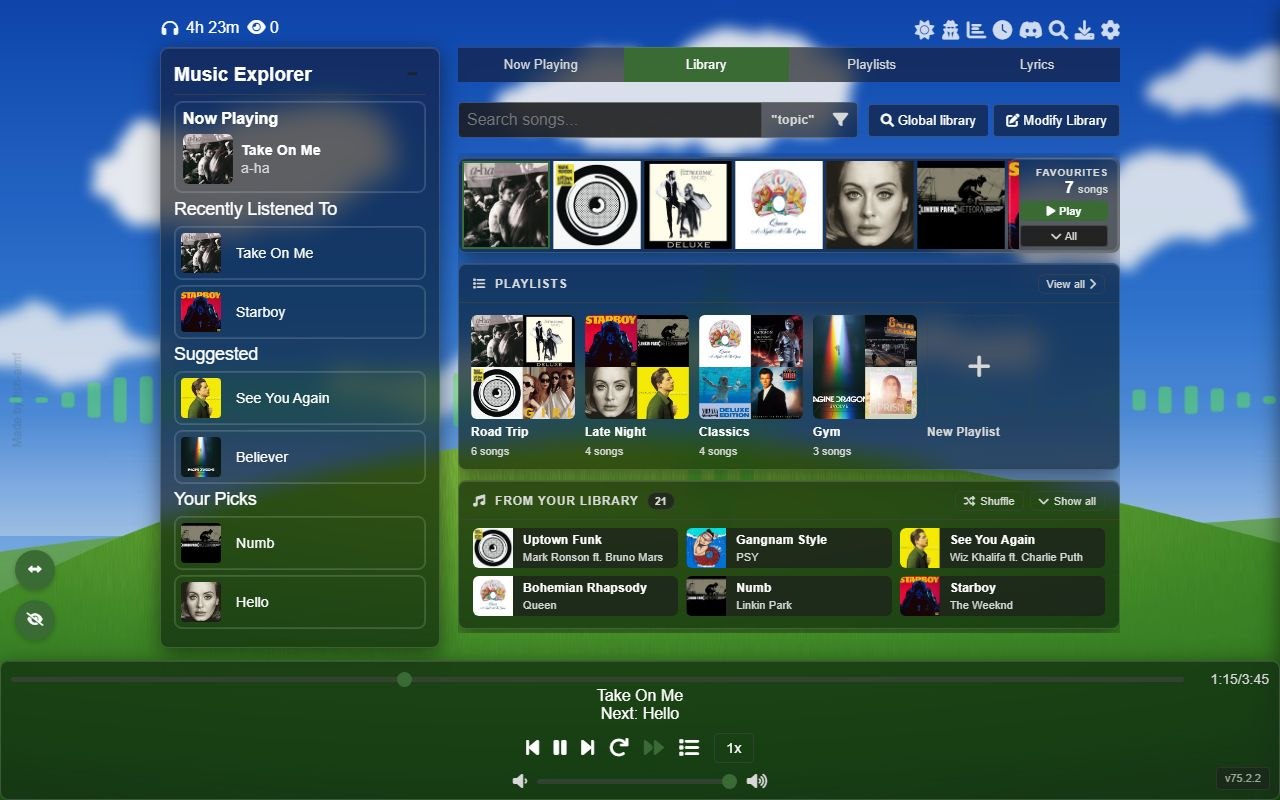
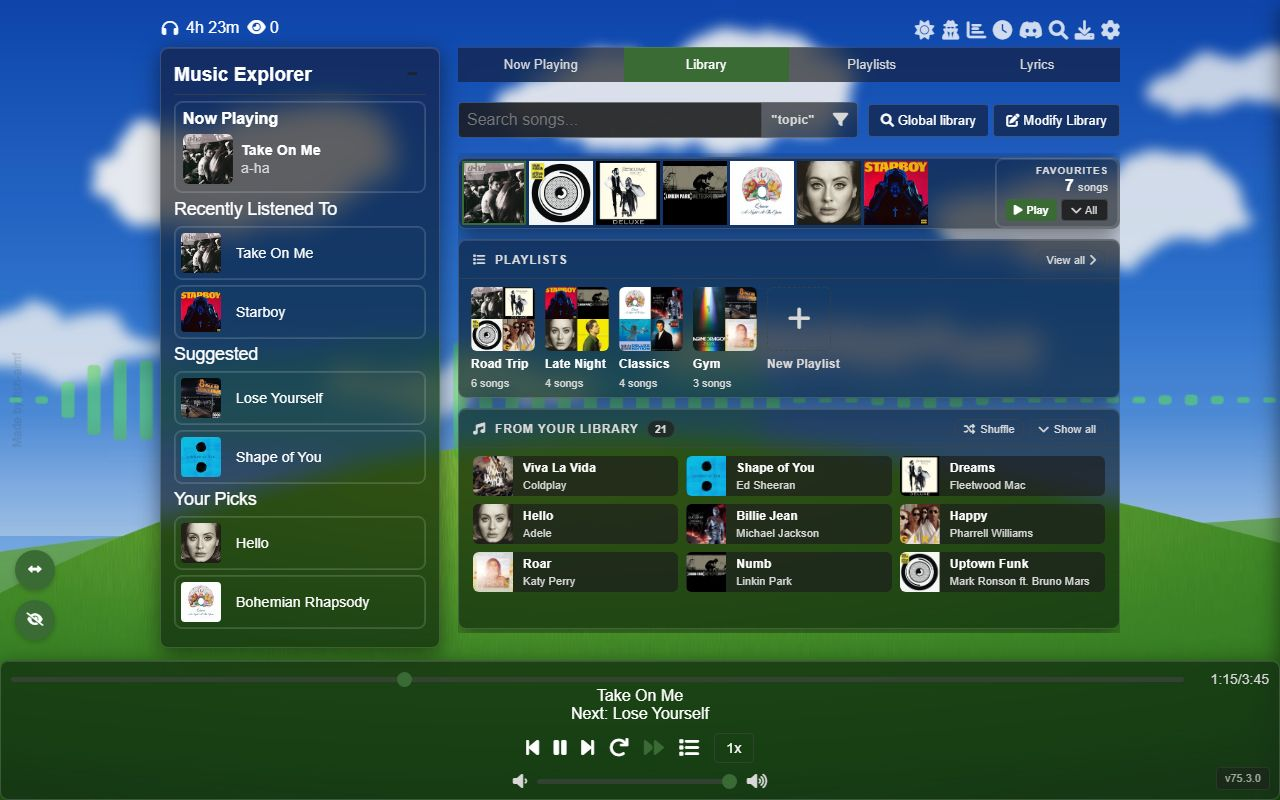
v75.3.2: Drop the control bar spacer and make room for another library row
The 100px #controlBarSpacer only added dead scroll below the fixed player
bar: the library already ends above the bar, and any tab switch hid the
spacer anyway. It is gone from the markup, CSS and the three places that
toggled it. The playlist sidebar spacers still let its last songs scroll
clear of the bar and are unchanged.

From your library now tries a snug layout before settling: the Favourites
strip and Playlists tiles shrink to 64px (buttons side by side) and the
grid is measured again in the same mode. Snug is kept only when it shows
more songs, so the shelves never shrink just to leave blank space. This
adds a compact-tile row from 720px to 850px tall and a cover row at
940-1000px and 1100px+. Regenerated the overview and glass screenshots,
which now show the snug layout at 1280x800.

diff --git a/public/script.js b/public/script.js
@@ -1285,7 +1285,6 @@ class AdvancedMusicPlayer {
     }
     this.elements.speedBtn.textContent = this.currentSpeed + 'x';
     const controlBarVisible = localStorage.getItem('controlBarVisible');
-    const spacerDiv = document.getElementById('controlBarSpacer');
     if (controlBarVisible === 'false') {
       requestAnimationFrame(() => {
         const controlBar = document.querySelector('.player-controls').closest('.player-container') || document.querySelector('.player-controls').parentElement;
@@ -1294,14 +1293,7 @@ class AdvancedMusicPlayer {
           controlBar.style.position = 'absolute';
           controlBar.style.pointerEvents = 'none';
         }
-        if (spacerDiv) {
-          spacerDiv.style.display = 'none';
-        }
       });
-    } else {
-      if (spacerDiv) {
-        spacerDiv.style.display = 'block';
-      }
     }
     this.updateDiscordButtonUI();
     if (this.discordEnabled) {
@@ -2849,19 +2841,30 @@ class AdvancedMusicPlayer {
         rows: Math.floor((grid.clientHeight - padY + gap) / (rowHeight + gap))
       };
     };
+    const layOutGrid = (snug, condensed) => {
+      card.parentElement?.classList.toggle('is-snug', snug);
+      card.style.minHeight = '0px';
+      card.classList.toggle('is-condensed', condensed);
+      let layout = measureGrid();
+      if (layout.rows < 1 && !condensed) {
+        card.classList.add('is-condensed');
+        layout = measureGrid();
+      }
+      layout.condensed = card.classList.contains('is-condensed');
+      layout.shown = layout.cols * Math.max(1, layout.rows);
+      return layout;
+    };
     const renderGrid = () => {
       if (shuffled.length === 0 || !grid.clientWidth) {
         return;
       }
-      card.style.minHeight = '0px';
-      card.classList.remove('is-condensed');
-      let layout = measureGrid();
-      if (layout.rows < 1) {
-        card.classList.add('is-condensed');
-        layout = measureGrid();
+      let layout = layOutGrid(false, false);
+      if (layout.shown < shuffled.length) {
+        const snug = layOutGrid(true, layout.condensed);
+        layout = snug.shown > layout.shown ? snug : layOutGrid(false, false);
       }
       card.style.minHeight = `${layout.minHeight}px`;
-      fillGrid(layout.cols * Math.max(1, layout.rows));
+      fillGrid(layout.shown);
     };
     shuffleBtn.addEventListener('click', () => {
       this._shuffleArray(shuffled);
@@ -6328,22 +6331,15 @@ class AdvancedMusicPlayer {
       this.lyricsInterval = null;
     }
     const nowPlaying = document.querySelector('.now-playing');
-    const spacer = document.getElementById('controlBarSpacer');
     if (tabName === 'nowplaying') {
       if (nowPlaying) {
         nowPlaying.style.display = 'none';
-      }
-      if (spacer) {
-        spacer.style.display = 'none';
       }
       this.isOnNowPlayingTab = true;
       this.hideCurrentSongSection();
     } else {
       if (nowPlaying) {
         nowPlaying.style.display = '';
-      }
-      if (spacer) {
-        spacer.style.display = '';
       }
       this.isOnNowPlayingTab = false;
       if (this.currentSong) {
@@ -10067,7 +10063,6 @@ class AdvancedMusicPlayer {
     const isVisible = targetElement.style.visibility !== 'hidden';
     const leftBanner = document.querySelector('.left-advertisement-banner');
     const rightBanner = document.querySelector('.right-advertisement-banner');
-    const spacerDiv = document.getElementById('controlBarSpacer');
     const overlayModeSpacer = document.getElementById('overlayModeSpacer');
     const expandedModeSpacer = document.getElementById('expandedModeSpacer');
     if (isVisible) {
@@ -10087,9 +10082,6 @@ class AdvancedMusicPlayer {
         layoutToggleBtn.style.position = '';
         layoutToggleBtn.style.pointerEvents = 'auto';
       }
-      if (spacerDiv) {
-        spacerDiv.style.display = 'none';
-      }
       if (overlayModeSpacer) {
         overlayModeSpacer.style.display = 'none';
       }
@@ -10107,9 +10099,6 @@ class AdvancedMusicPlayer {
       }
       if (rightBanner) {
         rightBanner.classList.remove('expanded');
-      }
-      if (spacerDiv) {
-        spacerDiv.style.display = 'block';
       }
       if (overlayModeSpacer) {
         overlayModeSpacer.style.display = 'block';

diff --git a/public/style.css b/public/style.css
@@ -3213,10 +3213,6 @@ body:has(#ytPlayer.fullscreen-video) {
   background: var(--bg-secondary);
   flex-shrink: 0;
 }
-.control-bar-spacer {
-  height: 100px;
-  display: none;
-}
 .action-btn {
   background: 0 0;
   transition: 0.3s;
@@ -5002,7 +4998,7 @@ body.control-bar-hidden .playlist-sidebar.expanded-mode .sidebar-songs-list {
   flex: 1 1 0%;
   display: grid;
   grid-auto-flow: column;
-  grid-auto-columns: 88px;
+  grid-auto-columns: min-content;
   grid-template-rows: 1fr;
   overflow: auto hidden;
   overscroll-behavior-x: contain;
@@ -5583,6 +5579,36 @@ body.control-bar-hidden .playlist-sidebar.expanded-mode .sidebar-songs-list {
 }
 .discovery-card.is-condensed .discovery-song-item.is-playing .discovery-thumb-wrap {
   outline: none;
+}
+.compact-library-view.is-snug .favorites-card-inner {
+  height: 70px;
+}
+.compact-library-view.is-snug .fav-thumb {
+  width: 64px;
+  height: 64px;
+}
+.compact-library-view.is-snug .favorites-panel {
+  width: 124px;
+  padding: 6px 10px;
+}
+.compact-library-view.is-snug .favorites-panel-bottom {
+  flex-direction: row;
+}
+.compact-library-view.is-snug .playlists-shelf-row {
+  padding: 8px 12px;
+}
+.compact-library-view.is-snug .playlist-shelf-tile {
+  flex-basis: 64px;
+}
+.compact-library-view.is-snug .playlist-shelf-name,
+.compact-library-view.is-snug .playlist-shelf-thumb {
+  width: 64px;
+}
+.compact-library-view.is-snug .playlist-shelf-thumb {
+  height: 64px;
+}
+.compact-library-view.is-snug .playlist-shelf-create-tile .playlist-shelf-name {
+  overflow: visible;
 }
 @media (max-height: 760px) {
   .compact-library-view {

diff --git a/public/tutorial.html b/public/tutorial.html
@@ -188,7 +188,7 @@
           <ul>
             <li><strong>Favourites</strong>: every song you've starred. Scroll it sideways with the mouse wheel or a swipe, and click a cover to play it. <strong>Play</strong> plays them all in order, and <strong>All</strong> opens them as a list.</li>
             <li><strong>Playlists</strong>: your playlists as cover tiles, plus a tile for making a new one.</li>
-            <li><strong>From your library</strong>: a shuffled grid of your songs with their artists, sized to fit the space: big covers on tall screens, compact tiles on shorter ones. <strong>Shuffle</strong> deals a new set and <strong>Show all</strong> shows the full list.</li>
+            <li><strong>From your library</strong>: a shuffled grid of your songs with their artists, sized to fit the space: big covers on tall screens, compact tiles on shorter ones. When slimmer Favourites and Playlists shelves would make room for one more row, they shrink to fit it. <strong>Shuffle</strong> deals a new set and <strong>Show all</strong> shows the full list.</li>
           </ul>
           <p><span class="tag">Tip</span> Right-click any cover on these shelves to add the song to the <a href="#queue">queue</a> instead of playing it straight away.</p>
         </div>

diff --git a/public/index.html b/public/index.html
@@ -673,7 +673,6 @@ Another Playlist{
             <div class="changelog-modal-body ui-modal__body" id="changelogContent"></div>
          </div>
       </div>
-      <div id="controlBarSpacer" class="control-bar-spacer"></div>
       <div id="subtitlesImportModal" class="subtitles-import-modal-overlay ui-overlay" style="display: none;">
          <div class="subtitles-import-modal-content ui-modal ui-modal--lg">
             <div class="subtitles-import-modal-header ui-modal__header">

diff --git a/CODEMAP.md b/CODEMAP.md
@@ -12,8 +12,8 @@ not hold what this file claims, regenerate, or `grep -n "  methodName("`.
 
 | Source | sha256 (first 12) | Lines |
 |---|---|---|
-| `public/script.js` | `0dbb34b78f66` | 16554 |
-| `public/index.html` | `1c9a92f53ead` | 1503 |
+| `public/script.js` | `f567a98c6aec` | 16543 |
+| `public/index.html` | `6cae17fc6031` | 1502 |
 | `public/script/settings.js` | `b1cbbfc3625b` | 561 |
 | `public/karaoke-player.js` | `ec6846376de2` | 683 |
 | `public/karaoke-encoder.js` | `d277db62d9e9` | 147 |
@@ -121,13 +121,13 @@ The rest match their id exactly.
 | `playlistEditModal` | 505 | `modal ui-overlay` |
 | `timerModal` | 525 | `modal ui-overlay` |
 | `changelogModal` | 667 | `changelog-modal ui-overlay` |
-| `subtitlesImportModal` | 677 | `subtitles-import-modal-overlay ui-overlay` |
-| `settingsModal` | 746 | `settings-modal ui-overlay` |
-| `recentlyPlayedModal` | 1222 | `recently-played-modal-bg ui-overlay` |
-| `lyricsModal` | 1237 | `lyrics-maker-modal hidden ui-overlay` |
-| `downloadModal` | 1355 | `dl-overlay ui-overlay` |
-| `shazamModal` | 1419 | `sz-overlay ui-overlay` |
-| `statsModal` | 1470 | `ls-overlay ui-overlay` |
+| `subtitlesImportModal` | 676 | `subtitles-import-modal-overlay ui-overlay` |
+| `settingsModal` | 745 | `settings-modal ui-overlay` |
+| `recentlyPlayedModal` | 1221 | `recently-played-modal-bg ui-overlay` |
+| `lyricsModal` | 1236 | `lyrics-maker-modal hidden ui-overlay` |
+| `downloadModal` | 1354 | `dl-overlay ui-overlay` |
+| `shazamModal` | 1418 | `sz-overlay ui-overlay` |
+| `statsModal` | 1469 | `ls-overlay ui-overlay` |
 
 ---
 

diff --git a/public/changelog.md b/public/changelog.md
@@ -788,3 +788,4 @@ Repo tooling only: the tutorial screenshot script no longer counts its page load
 Guide mode's Point and ask no longer blocks the player: clicks and shortcuts work as normal while it explains whatever you hover over, its card stays still long enough to reach, and on touchscreens the first tap explains a control and the second uses it v75.2.2
 Redesigned the From your library shelf: covers now fill each row evenly with the song and artist underneath, a play button slides in on hover, only whole rows are shown so titles are never cut off, the song you're playing stays highlighted as it changes, and All is now Show all v75.3.0
 From your library no longer hides song titles below the edge on shorter screens: when a row of covers doesn't fit it switches to compact tiles with the cover beside the title, and on windows under 760px tall the playlist covers shrink a little to make room v75.3.1
+The page no longer scrolls down into an empty strip below the control bar, and From your library makes room for one more row of songs when it can: the Favourites and Playlists shelves slim down whenever that lets another row fit v75.3.2
